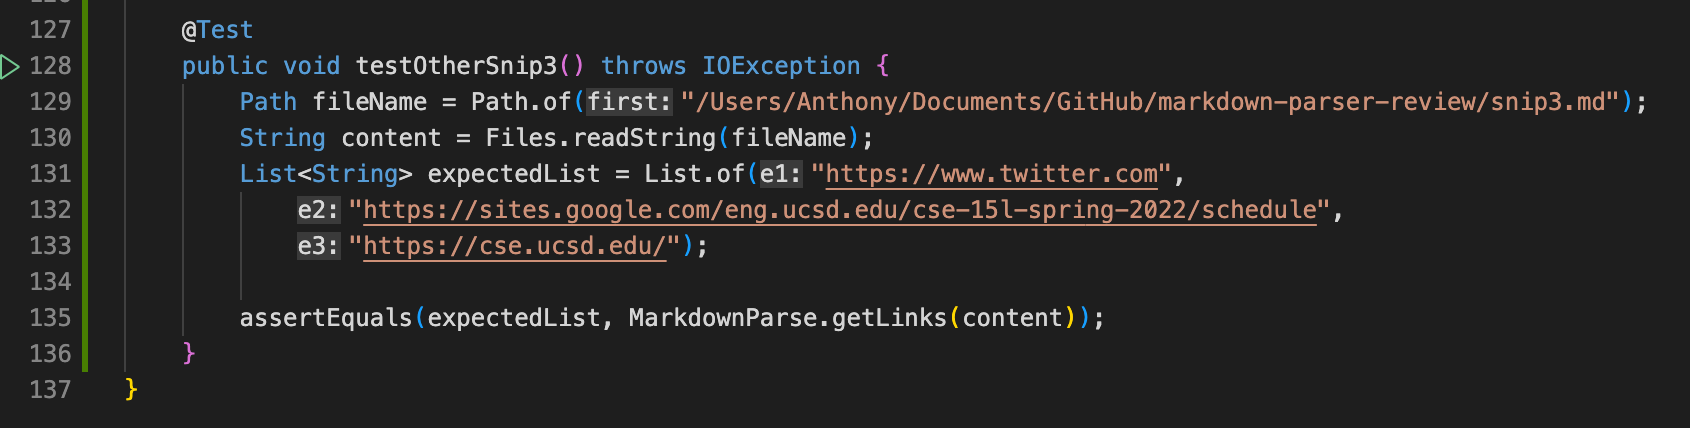
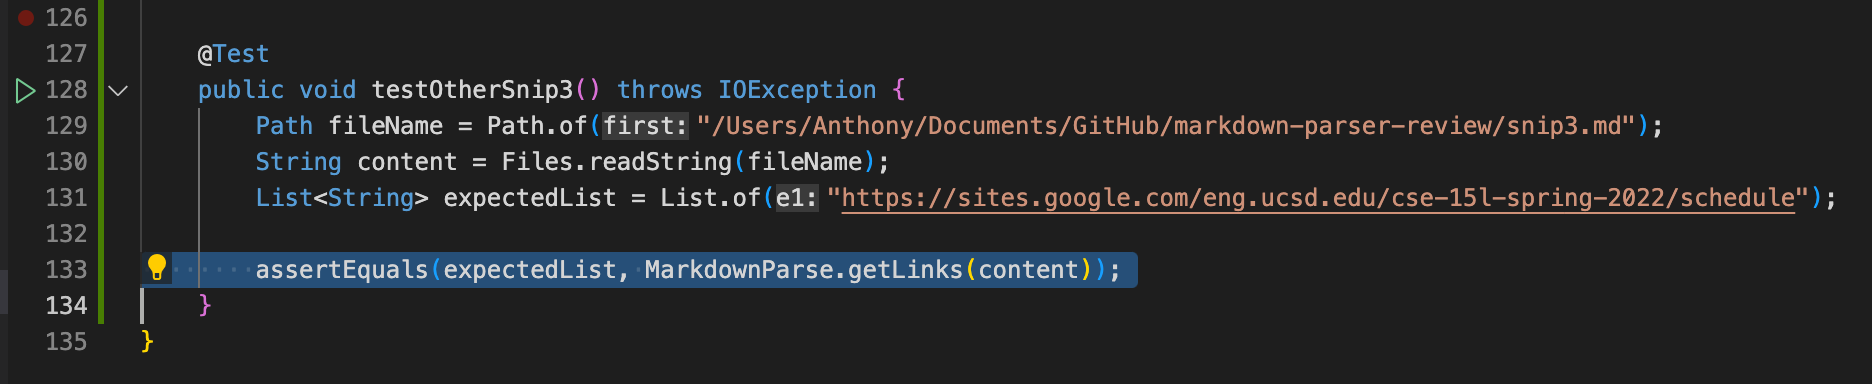
Updated lab report 4

Changed region(s): [[0.0, 0.0, 0.9846, 0.9375]]

diff --git a/report4/lab-report-4-week8.md b/report4/lab-report-4-week8.md
@@ -116,7 +116,7 @@ And then there's more text
 ```
 
 
-From VSCode's markdown preview, the expected output of `markdown-parse` when given this markdown snippet should be `[https://www.twitter.com, https://sites.google.com/eng.ucsd.edu/cse-15l-spring-2022/schedule, https://cse.ucsd.edu/]`, as you can see below.
+From VSCode's markdown preview, the expected output of `markdown-parse` when given this markdown snippet should be `[https://sites.google.com/eng.ucsd.edu/cse-15l-spring-2022/schedule]`, as you can see below.
 
 ![snip3Expected](snip3Expected.png)
 
@@ -142,7 +142,7 @@ For my group's implementation, we got `[]` as the output, which differs from the
 The other group's implementation's output was `[ https://www.twitter.com
 , 
 https://sites.google.com/eng.ucsd.edu/cse-15l-spring-2022/schedule
-, https://cse.ucsd.edu/]`, which is almost exactly like what the expected output was except for the whitespaces.
+, https://cse.ucsd.edu/]`, which also differs from the expected output.
 
 I don't think a small code change of less than 10 lines would make my group's program work for markdown snippet #3 and all related cases that have newlines in brackets and parentheses. This is because our program does not take into account new lines inside a markdown link formatting, therefore it is not able to recognize a valid markdown link formatting that spans across multiple lines. To fix this case of markdown link formatting, I believe a small code change of less than 10 lines would not be enough, and a whole revamp of the code would be needed instead.
 
